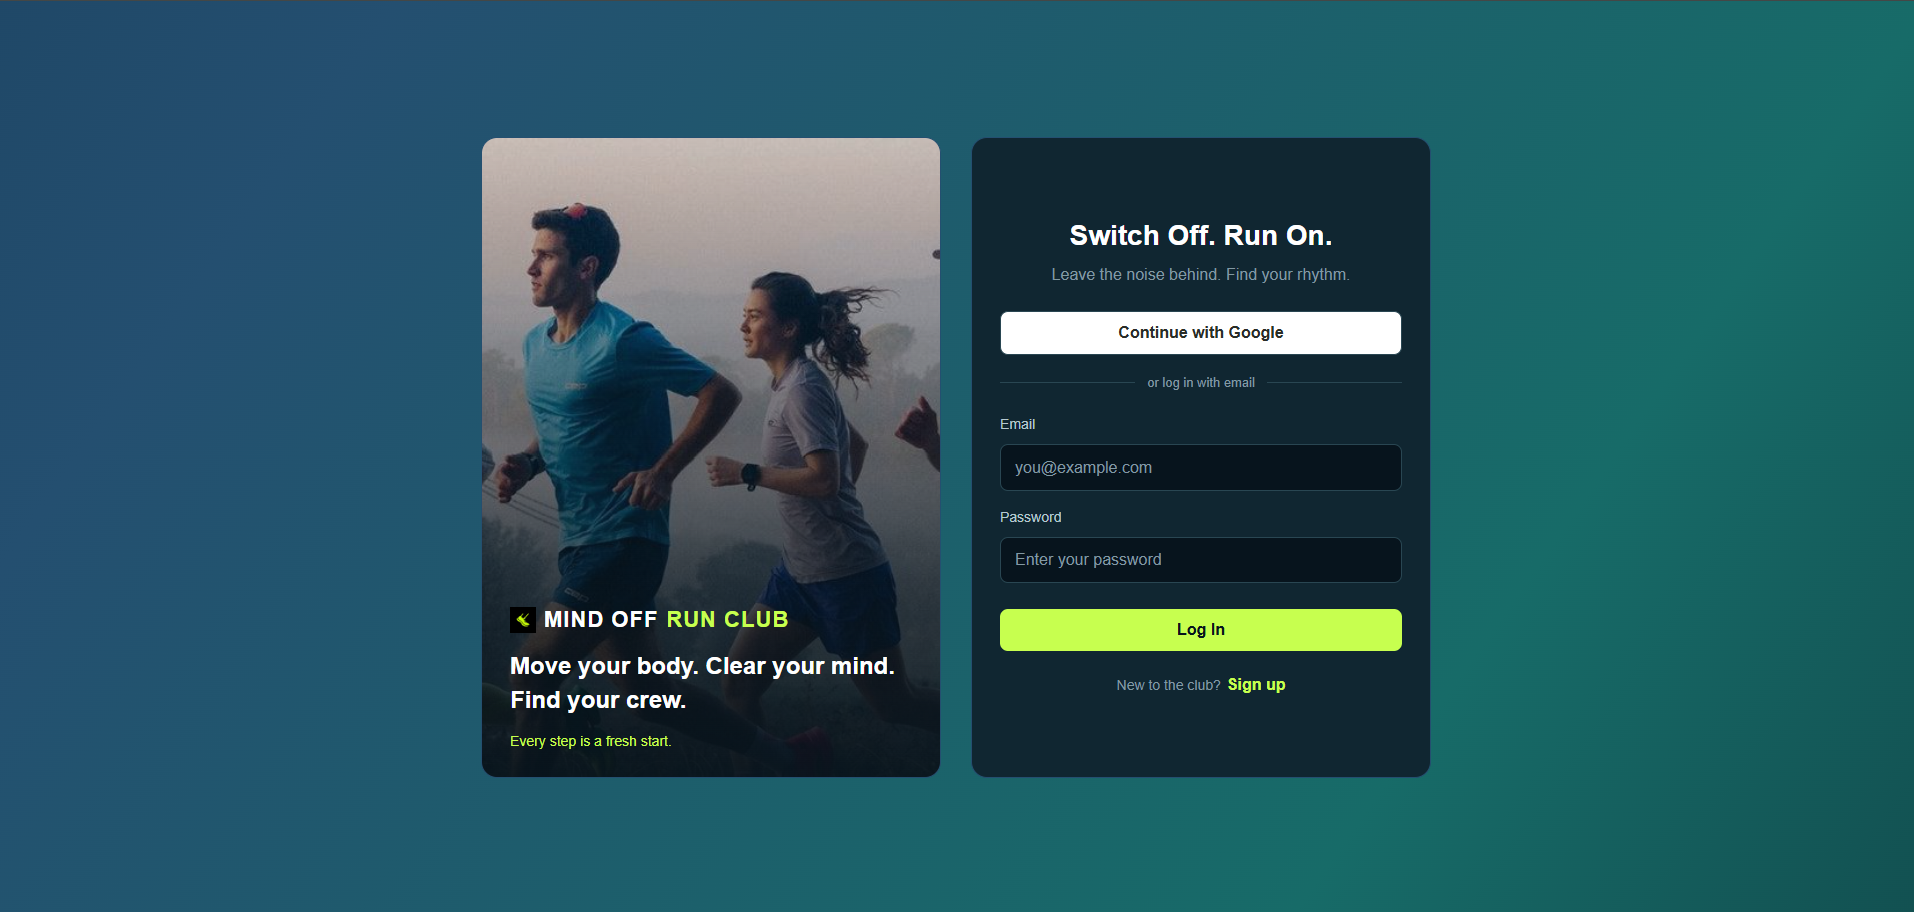
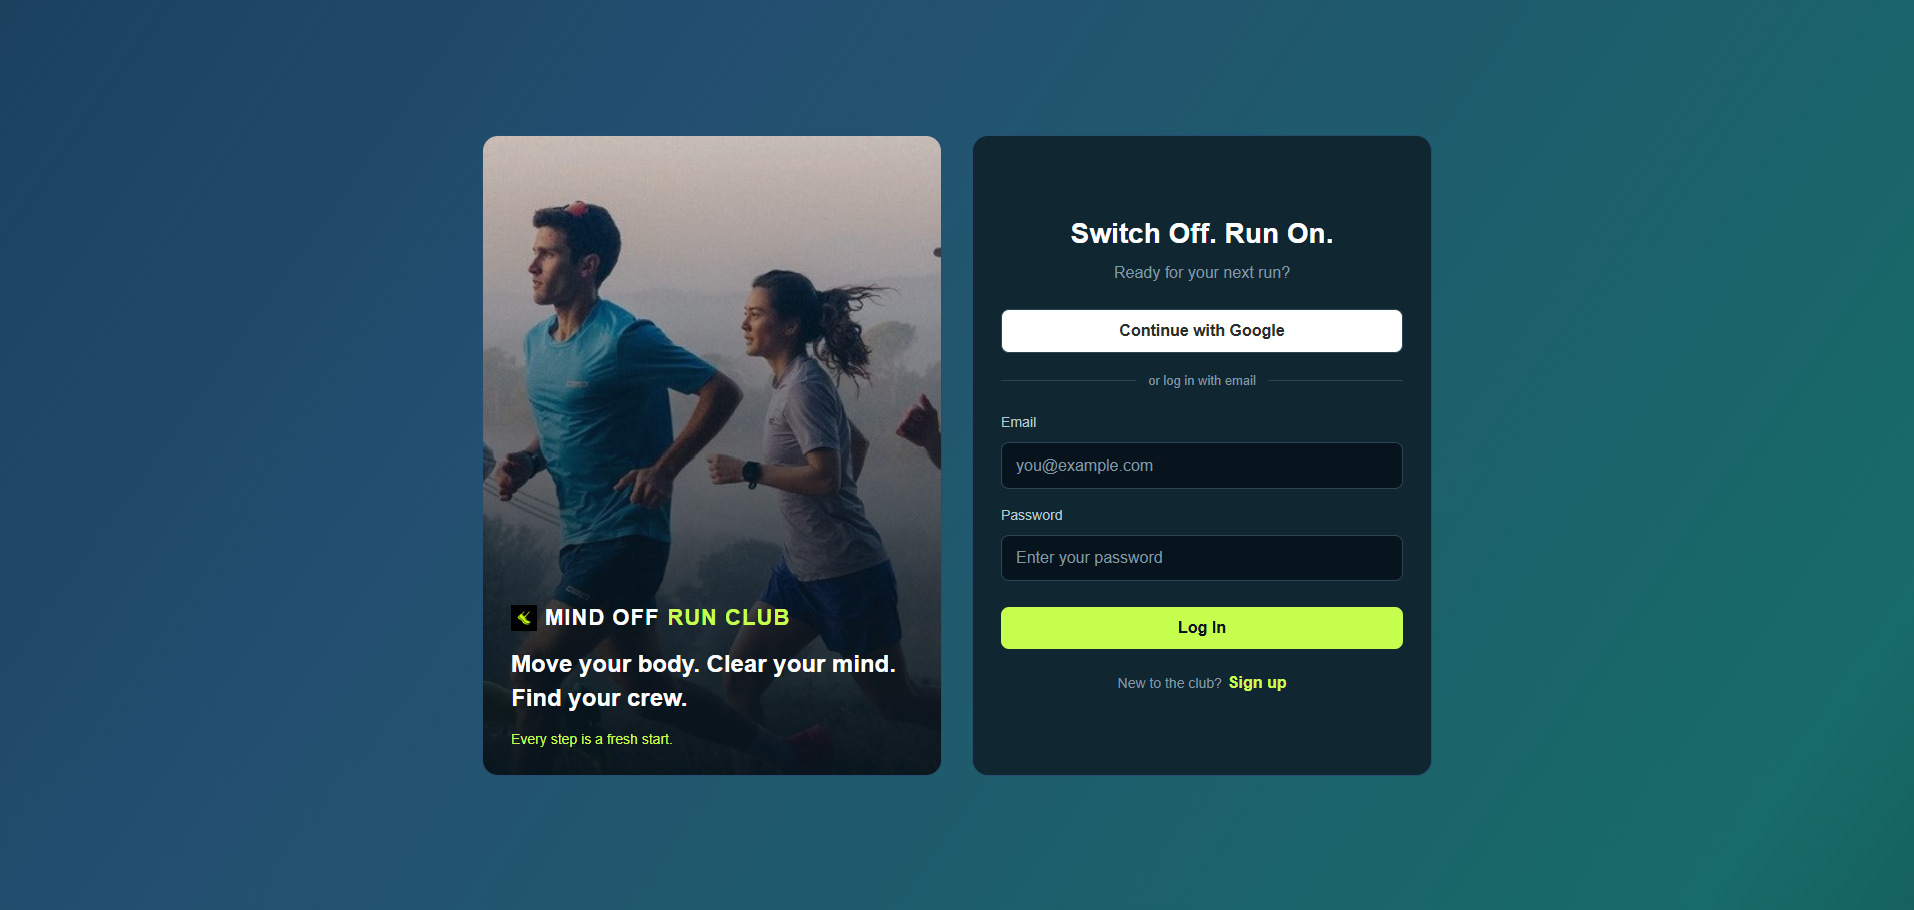
update

diff --git a/src/components/Login.jsx b/src/components/Login.jsx
@@ -114,7 +114,7 @@ function Login({ onSignUp, onLoginSuccess }) {
                     <h2>Switch Off. Run On.</h2>
 
                     <p className="login-description">
-                        Leave the noise behind. Find your rhythm.
+                        Ready for your next run?
                     </p>
 
                     <button
